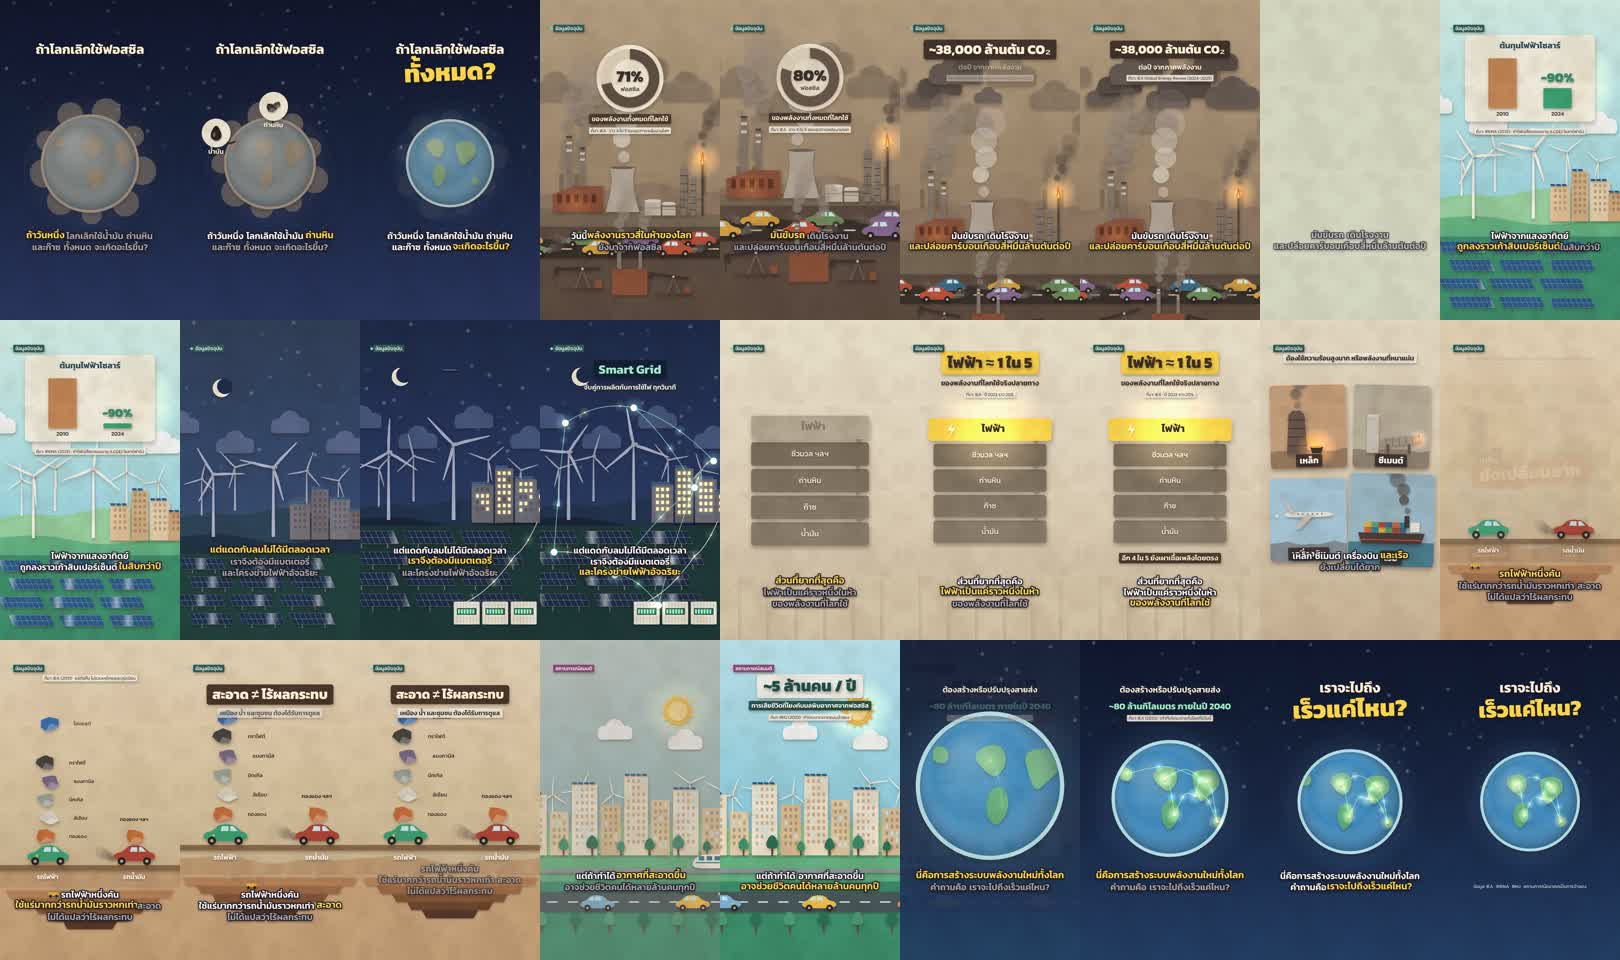
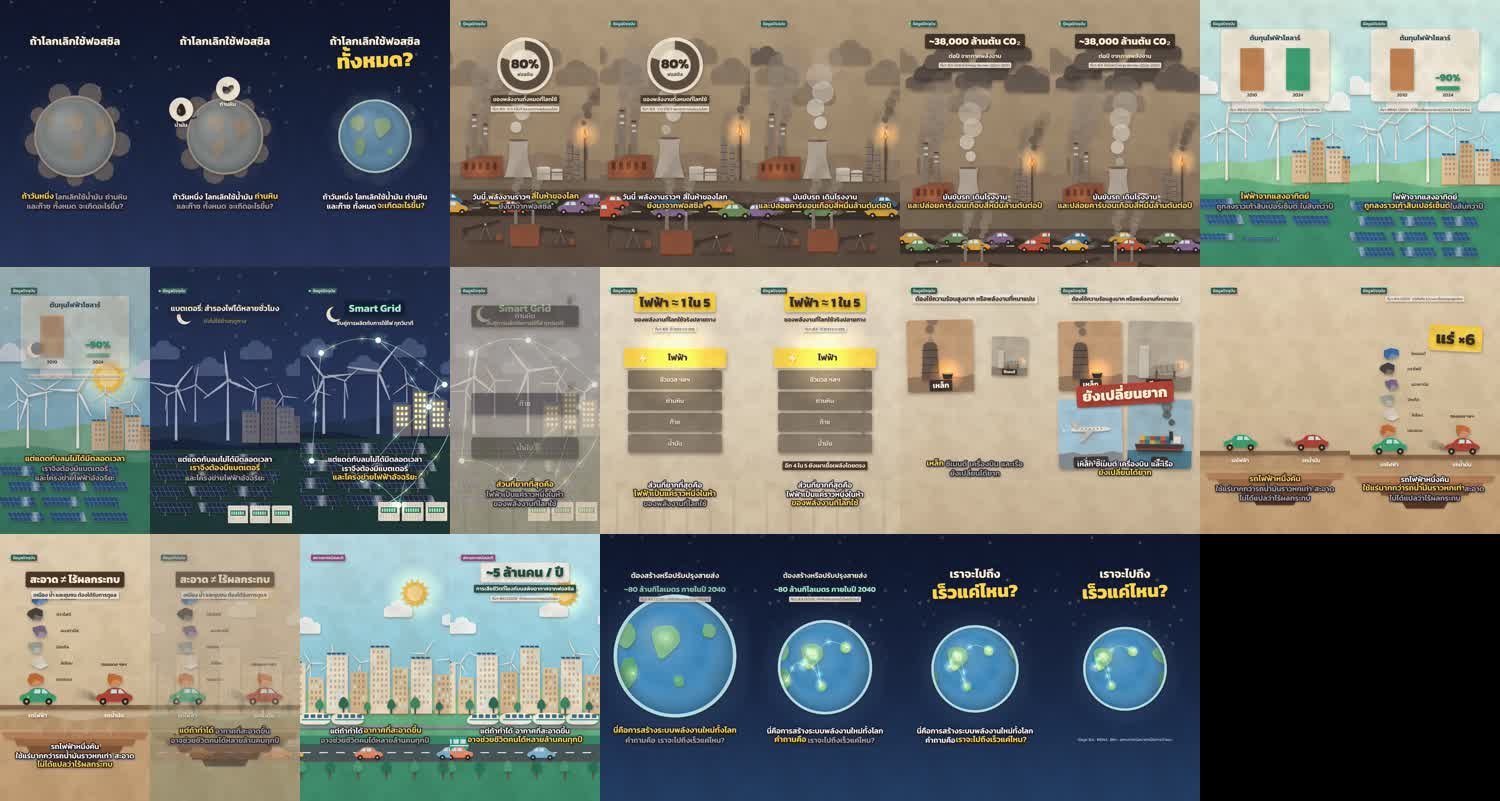
Clean-energy Short v2: -3 dBTP ceiling so the AAC encode stays under 0 dBFS; QC report and cut sheet for 55.9 s
Claude-Session: https://claude.ai/code/session_017dK59kLCPX2yvq28uerJe4

diff --git a/shorts/clean-energy/QC.md b/shorts/clean-energy/QC.md
@@ -1,4 +1,6 @@
-# QC Report — ถ้าโลกเปลี่ยนไปใช้พลังงานสะอาดทั้งหมด?
+# QC Report — ถ้าโลกเปลี่ยนไปใช้พลังงานสะอาดทั้งหมด? (v2, 55.9 s)
+
+v2: ยืดจาก 39.9 s เป็น 55.9 s ตามคำขอ "ไม่ให้ดูเร่งเกินไป ไม่เกิน 1 นาที" บรรยายกลับเป็นความเร็วปกติ (v1 เร่ง 1.25 เท่า) เว้นระหว่างบรรทัด 0.45–0.8 s และก่อนขึ้นช่วงเรื่องใหม่ 1.1 s ภาพทุกจังหวะยืดตามเวลาเสียงโดยอัตโนมัติ
 
 ไฟล์ที่ตรวจ: `out/shorts/clean-energy_shorts.mp4` (ไฟล์หลัก) และ `out/shorts/clean-energy_shorts_720p.mp4` (สำเนาสำหรับดูบนมือถือ)
 
@@ -9,10 +11,10 @@
 | รายการ | เป้าหมาย | ผล | สถานะ |
 |---|---|---|---|
 | ความละเอียด | 1080×1920 (9:16) | 1080×1920, h264 yuv420p | ✅ |
-| เฟรมเรต | 30 fps | 30/1, 1,197 เฟรม | ✅ |
-| ความยาว | 35–40 s | 39.90 s | ✅ |
+| เฟรมเรต | 30 fps | 30/1, 1,676 เฟรม | ✅ |
+| ความยาว | ไม่เกิน 60 s (v2) | 55.87 s | ✅ |
 | เสียง | มีเสียงบรรยาย, BGM และ SFX | AAC 48 kHz stereo, 192 kbps | ✅ |
-| ความดัง | ประมาณ −14 LUFS สำหรับ YouTube | −14.0 LUFS integrated, peak −0.4 dBFS หลังแปลงเป็น AAC (ใน WAV ก่อนแปลงอยู่ที่ −1.5 dBTP) | ✅ |
+| ความดัง | ประมาณ −14 LUFS สำหรับ YouTube | −14.2 LUFS integrated, peak −1.2 dBFS หลังแปลงเป็น AAC (ตั้ง loudnorm ไว้ที่ −3 dBTP เพราะตอนเพดาน −1.5 การแปลงเป็น AAC ดันพีคไปถึง +1.0 dBFS) | ✅ |
 
 ## ภาพ
 
@@ -21,7 +23,7 @@
 | คุณภาพทุกฉากสม่ำเสมอ | ดู contact sheet ทั้งเรื่อง (1 เฟรมทุก 1.5 s) และเปิดดูเฟรมเต็มขนาด | ✅ ทุกฉากใช้ชุดเครื่องมือ Paper Cut และ grain เดียวกัน เงาเข้มขึ้นตามความสูงของชั้น |
 | รูปทรงอุปกรณ์สมเหตุสมผล | ดูเฟรมเต็มขนาด | ✅ กังหันมี 3 ใบบนเสาเรียว, หอหล่อเย็นเป็นทรงเอว, ปล่องมีลายแถบ, แผงโซลาร์เอียงบนขาพร้อมเส้นเซลล์, แบตเตอรี่เป็นตู้คอนเทนเนอร์มีระดับประจุ, ปั๊มน้ำมันมีหัวม้าและแขนถ่วง, เสาส่งเป็นโครงถัก |
 | ไม่มีวัตถุผิดรูปหรือเปลี่ยนรูประหว่าง animation | ทุกวัตถุเป็นฟังก์ชันของเวลา ไม่มี morph และดู strip ทุกเฟรมของ hook, wipe และแผ่นที่ตกลงมา | ✅ |
-| ไม่มีเฟรมว่างหรือภาพกระตุก | `blackdetect` และวัดความต่างระหว่างเฟรมทั้ง 1,197 เฟรม (median 0.69) | ✅ ไม่พบเฟรมดำ จุดที่ภาพเปลี่ยนแรงมี 3 จุดและตั้งใจทั้งหมด: แสงวาบตอนตัดสาย (2.77 s), กระดาษ wipe (11.0–11.3 s), แผ่นกระดาษตกลงมา (19.1–19.5 s) ทั้ง 3 จุดเคลื่อนไหวต่อเนื่องเมื่อดูใน strip |
+| ไม่มีเฟรมว่างหรือภาพกระตุก | `blackdetect` และวัดความต่างระหว่างเฟรมทั้ง 1,676 เฟรม (median 0.64) | ✅ ไม่พบเฟรมดำ จุดที่ภาพเปลี่ยนแรงมี 3 จุดและตั้งใจทั้งหมด: แสงวาบตอนตัดสาย (3.5 s), กระดาษ wipe (15.8–16.1 s), แผ่นกระดาษตกลงมา (26.8–27.2 s) ทั้ง 3 จุดเคลื่อนไหวต่อเนื่องเมื่อดูใน strip |
 | ข้อความอ่านง่าย | ดูเฟรมเต็มขนาด | ✅ ซับไตเติล Kanit 54 px มีขอบหมึกหนาและเงา ตัวเลขหลัก 72–150 px บนการ์ดกระดาษ อยู่ในพื้นที่ปลอดภัยของ Shorts (ไม่อยู่ในแถบล่าง 300 px หรือใต้ปุ่มด้านขวา) ป้าย "ที่มา" 26 px อ่านได้บนจอมือถือแต่ตัวเล็ก ตั้งใจให้เป็นข้อมูลประกอบ |
 | ข้อความไม่ทับกัน | ดูเฟรมช่วงที่ข้อความเปลี่ยน | ✅ แก้แล้ว: ไอคอนถ่านหินเคยทับชื่อเรื่องใน hook และข้อความแบตเตอรี่เคยทับกับ Smart Grid |
 
@@ -29,10 +31,10 @@
 
 | ตรวจ | วิธีตรวจ | ผล |
 |---|---|---|
-| บรรยายตรงบท | ถอดเสียงจาก mix สุดท้ายด้วย Gemini 3.5 Flash | ✅ ทั้ง 10 บรรทัดตรงบท ⚠ ข้อสังเกต: บรรทัด n02 คำว่า "ราว" ออกเสียงสั้นจนเครื่องถอดเป็น "เรา" แต่ซับไตเติลแสดง "ราวสี่ในห้า" ถูกต้อง |
+| บรรยายตรงบท | ถอดเสียงจาก mix สุดท้ายด้วย Gemini 3.5 Flash | ✅ ทั้ง 10 บรรทัดตรงบท บรรทัด n02 อัดใหม่เป็น "ราวๆ" และถอดออกมาได้ชัดแล้ว ⚠ ข้อสังเกต: บรรทัด n01 รอบนี้เครื่องถอดเป็น "ถ้าวันนี้" แต่เสียงชุดเดียวกันใน v1 ถอดได้ "ถ้าวันหนึ่ง" ถูกต้อง จึงน่าจะเป็นความคลาดเคลื่อนของเครื่องถอด แต่ควรฟังยืนยัน |
 | เสียงบรรยายเหนือดนตรี | เทียบพลังงานในย่านเสียงพูด (มากกว่า 250 Hz) ระหว่างเสียงพูดกับดนตรีและ SFX ที่อยู่ข้างใต้ | ✅ ทุกบรรทัดสูงกว่า 11.6–22.0 dB (เกณฑ์ของโปรเจกต์เดิมคือ ≥ 8 dB) ดนตรีถูก duck ใต้เสียงพูดด้วย sidechain |
 | เสียงตรงกับภาพ | SFX และภาพอ่านเวลาวลีจากชุดเดียวกัน (`phrases.js`) | ✅ ดูจาก spectrogram ว่าดนตรี 4 ช่วงตรงกับจุดตัดฉาก และ SFX ตรงจังหวะ (ตัดสาย, แผงกาง, แบตเตอรี่, แผ่นตก, ตราประทับ, แร่ตก) |
-| ฟังด้วยหู | — | ⚠ ยังไม่ได้ฟัง Claude ฟังเสียงไม่ได้ การตรวจทั้งหมดใช้ spectrogram, การวัดค่า และการถอดเสียง ควรมีคนฟังระดับเสียงและโทนดนตรีอีกครั้งก่อนเผยแพร่ |
+| ฟังด้วยหู | — | ⚠ ยังไม่ได้ฟัง Claude ฟังเสียงไม่ได้ ควรฟังคำแรกของบรรทัด n01 ด้วย การตรวจทั้งหมดใช้ spectrogram, การวัดค่า และการถอดเสียง ควรมีคนฟังระดับเสียงและโทนดนตรีอีกครั้งก่อนเผยแพร่ |
 
 ## ความถูกต้องของเนื้อหา
 
@@ -51,6 +53,6 @@
 
 | เรื่อง | รายละเอียด |
 |---|---|
-| โควตา TTS | โควตารายวันของ Gemini 3.8 Flash TTS หมด จึงใช้ Gemini 2.5 Flash TTS แทน (เสียง Puck) สร้างเทคเดียวทั้งบท แล้วเร่งเป็น 1.25 เท่าเพื่อให้ความยาวอยู่ในช่วง 35–40 s |
+| โควตา TTS | โควตารายวันของ Gemini 3.8 Flash TTS หมด จึงใช้ Gemini 2.5 Flash TTS แทน (เสียง Puck) สร้างเทคเดียวทั้งบท v1 เร่งเป็น 1.25 เท่าเพื่อให้อยู่ในช่วง 35–40 s ส่วน v2 ใช้ความเร็วปกติ |
 | ดนตรี | Lyria ไม่มีโควตาใน free tier ดนตรีจึงสังเคราะห์ด้วยโค้ดทั้งหมด (`scripts/shorts_audio.mjs`) |
 | เวลาวลี | การจัดเวลาวลีอัตโนมัติด้วย Gemini คลาดไปถึง 1.5 s จึงตั้งเวลาเองจาก envelope ของเสียงและจำนวนพยางค์ |

diff --git a/STATUS.md b/STATUS.md
@@ -69,9 +69,9 @@ code, Ghibli-inspired, built with ClaudeAnimationBase (copied from P Doom).
   bank (Apple licence); SFX are synthesized in code.
 
 ## Short: ถ้าโลกเปลี่ยนไปใช้พลังงานสะอาดทั้งหมด? (2026-11-23)
-- Done: 39.9 s, 1080×1920, 30 fps, paper-cut style → `out/shorts/clean-energy_shorts.mp4` (+ `_720p`). Docs in
+- Done v2 (user: too rushed, may run to 1 min): 55.9 s natural-speed narration (v1 was 39.9 s at 1.25×), 1080×1920, 30 fps, paper-cut style → `out/shorts/clean-energy_shorts.mp4` (+ `_720p`). Docs in
   `shorts/clean-energy/` (SCRIPT, STORYBOARD, ASSETS, QC). Page `shorts.html` (`render.mjs --page=shorts.html --fps=30`).
 - Rebuild: TTS take (`scripts/shorts_tts.py shorts/clean-energy/full3.json out/shorts/voice/take Puck gemini-2.5-flash-preview-tts`)
   → `scripts/shorts_voice.py <take> <cuts>` → re-check `src/shorts/phrases.js` → `node scripts/shorts_audio.mjs` →
   `render.mjs --page=shorts.html --fps=30 --frames --workers=4 --framesdir=out/shorts/frames` → ffmpeg mux with mix.wav.
-- Open: a human listen for levels and music; n02 "ราว" is spoken short (heard as "เรา" by the transcriber).
+- Open: a human listen for levels and music (and n01's first words). n02 re-recorded as "ราวๆ" (fixed).
